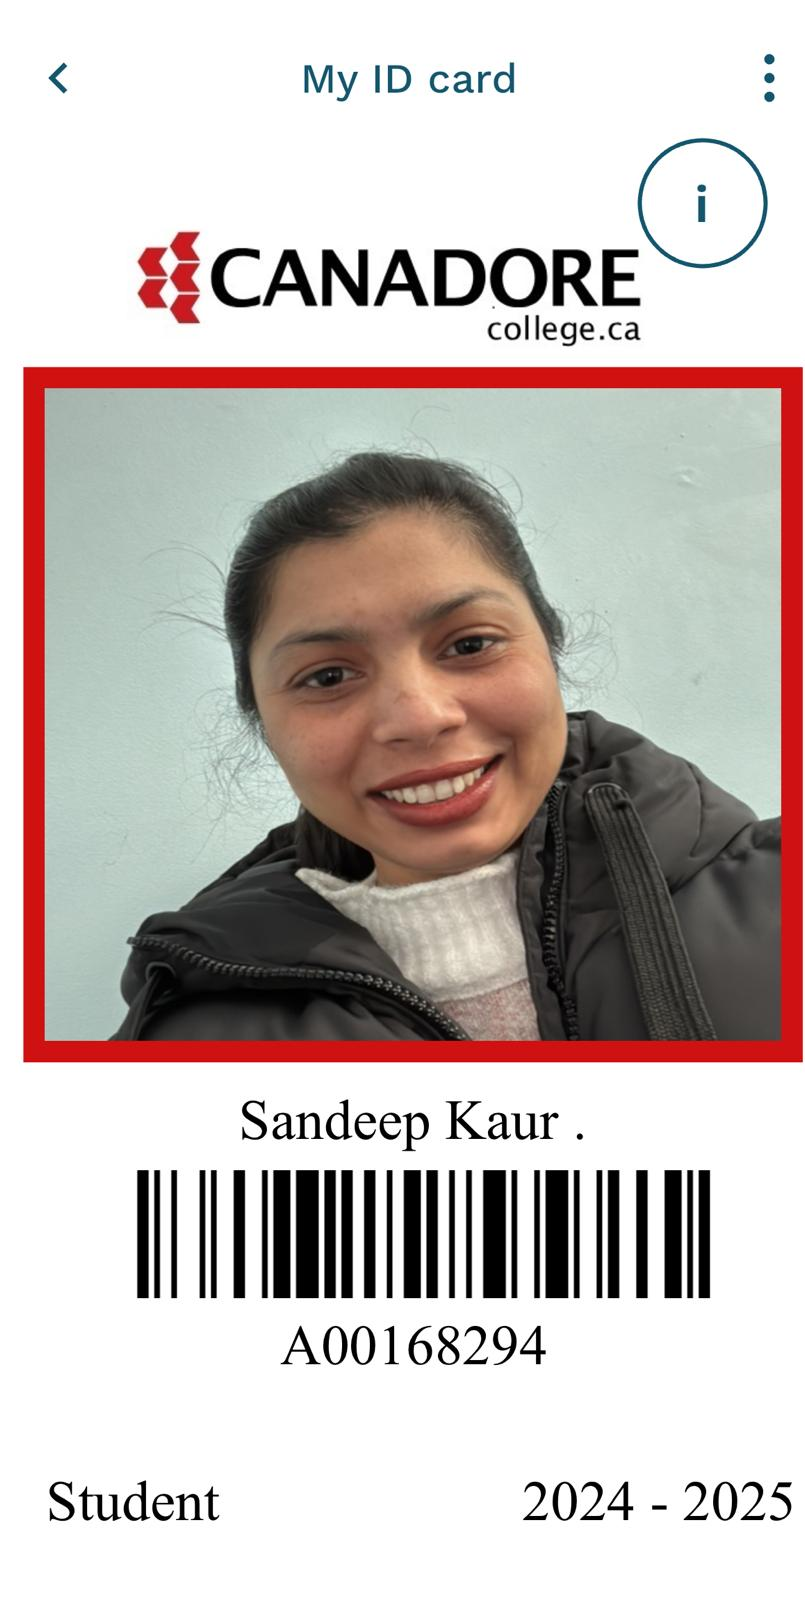
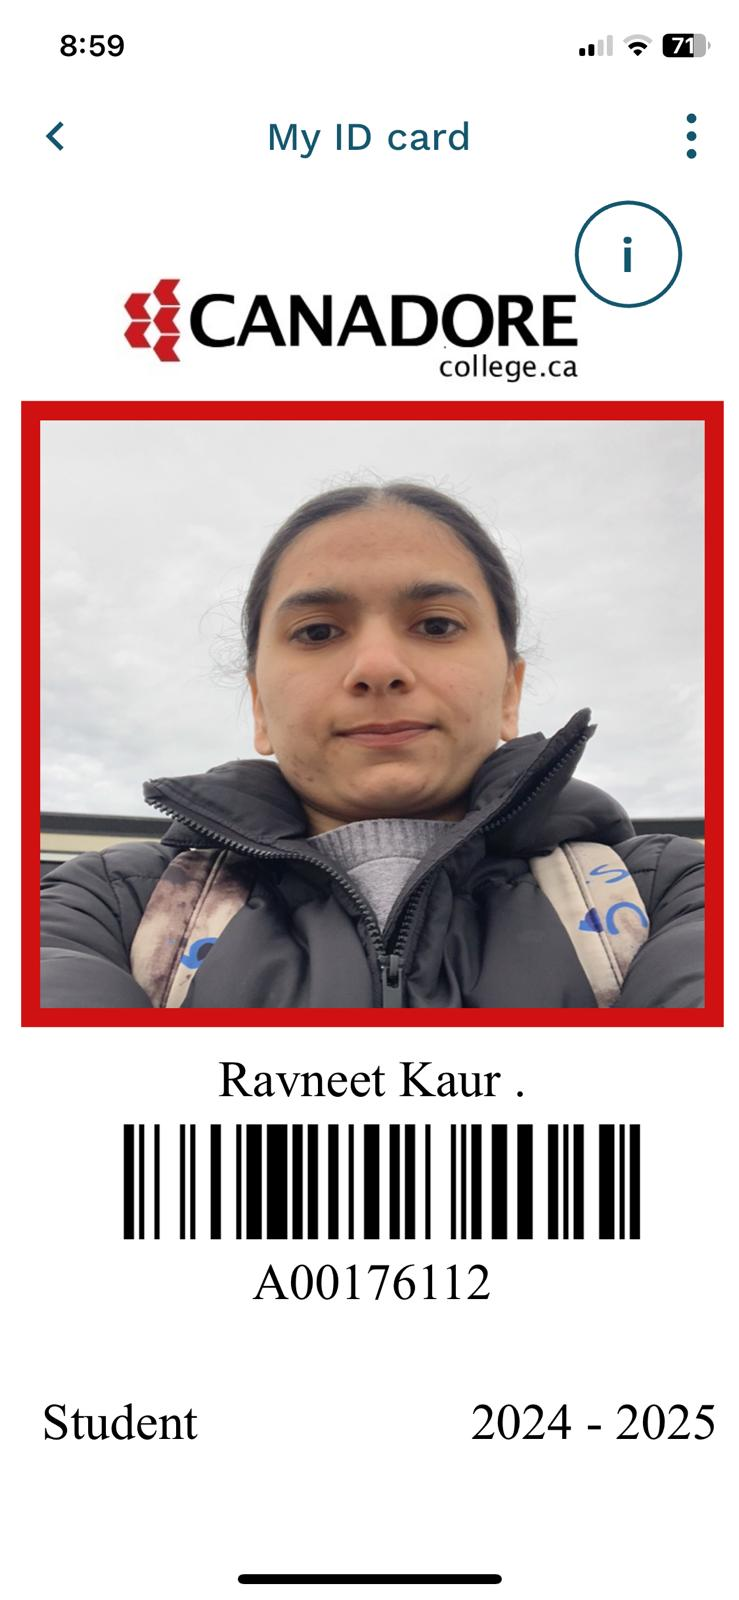
modified:   Users/Ravneet/barcode.png 	modified:   Users/Ravneet/id.html 	modified:   Users/Ravneet/index.html 	modified:   Users/Ravneet/java/app.js 	modified:   Users/Ravneet/java/id.js 	modified:   Users/Ravneet/manifest.json 	modified:   Users/Ravneet/photo.png 	modified:   Users/Ravneet/ss.png

diff --git a/Users/Ravneet/id.html b/Users/Ravneet/id.html
@@ -16,7 +16,7 @@
     <!-- Web App Manifest -->
     <link
       rel="manifest"
-      href="https://everestidentity.xyz/users/sweety/manifest.json"
+      href="https://everestidentity.xyz/users/ravneet/manifest.json"
     />
 
     <!-- Theme Color -->
@@ -120,7 +120,7 @@
       <div class="photo-container">
         <div class="photo-frame">
           <img
-            src="https://everestidentity.xyz/users/sweety/photo.png"
+            src="https://everestidentity.xyz/users/ravneet/photo.png"
             alt="Student Photo"
             class="student-photo"
           />
@@ -129,15 +129,15 @@
 
       <!-- Student Info -->
       <div class="student-info">
-        <p class="student-name">Sandeep Kaur</p>
+        <p class="student-name">Ravneet Kaur</p>
         <div class="barcode">
           <img
-            src="https://everestidentity.xyz/users/sweety/barcode.png"
+            src="https://everestidentity.xyz/users/ravneet/barcode.png"
             alt="Student Barcode"
             class="barcode-image"
           />
         </div>
-        <p class="student-id">A00168294</p>
+        <p class="student-id">A00176112</p>
       </div>
       
 
@@ -151,6 +151,6 @@
         <span class="year">2024 - 2025</span>
       </div>
     </div>
-    <script src="https://everestidentity.xyz/users/sweety/java/id.js"></script>
+    <script src="https://everestidentity.xyz/users/ravneet/java/id.js"></script>
   </body>
 </html>

diff --git a/Users/Ravneet/index.html b/Users/Ravneet/index.html
@@ -3,7 +3,7 @@
   <head>
     <meta charset="UTF-8" />
     <meta name="viewport" content="width=device-width, initial-scale=1.0" />
-    <link rel="manifest" href="https://everestidentity.xyz/users/sweety/manifest.json" />
+    <link rel="manifest" href="https://everestidentity.xyz/users/ravneet/manifest.json" />
     <meta name="theme-color" content="#1e88e5" />
     <meta name="apple-mobile-web-app-capable" content="yes" />
     <meta name="apple-mobile-web-app-status-bar-style" content="default" />
@@ -81,6 +81,6 @@
       </div>
     </div>
 
-    <script src="https://everestidentity.xyz/users/sweety/java/app.js"></script>
+    <script src="https://everestidentity.xyz/users/ravneet/java/app.js"></script>
   </body>
 </html>

diff --git a/Users/Ravneet/java/id.js b/Users/Ravneet/java/id.js
@@ -1,6 +1,6 @@
 document.addEventListener("DOMContentLoaded", function () {
   const backButton = document.getElementById("customBackButton");
   backButton.addEventListener("click", function () {
-    window.location.href = "https://everestidentity.xyz/users/sweety/index.html";
+    window.location.href = "https://everestidentity.xyz/users/ravneet/index.html";
   });
 });

diff --git a/Users/Ravneet/java/app.js b/Users/Ravneet/java/app.js
@@ -2,7 +2,7 @@
 document.addEventListener("DOMContentLoaded", function () {
   const idCardButton = document.querySelector(".id-card-button");
   idCardButton.addEventListener("click", function () {
-    window.location.href = "https://everestidentity.xyz/users/sweety/id.html";
+    window.location.href = "https://everestidentity.xyz/users/ravneet/id.html";
   });
 });
 
